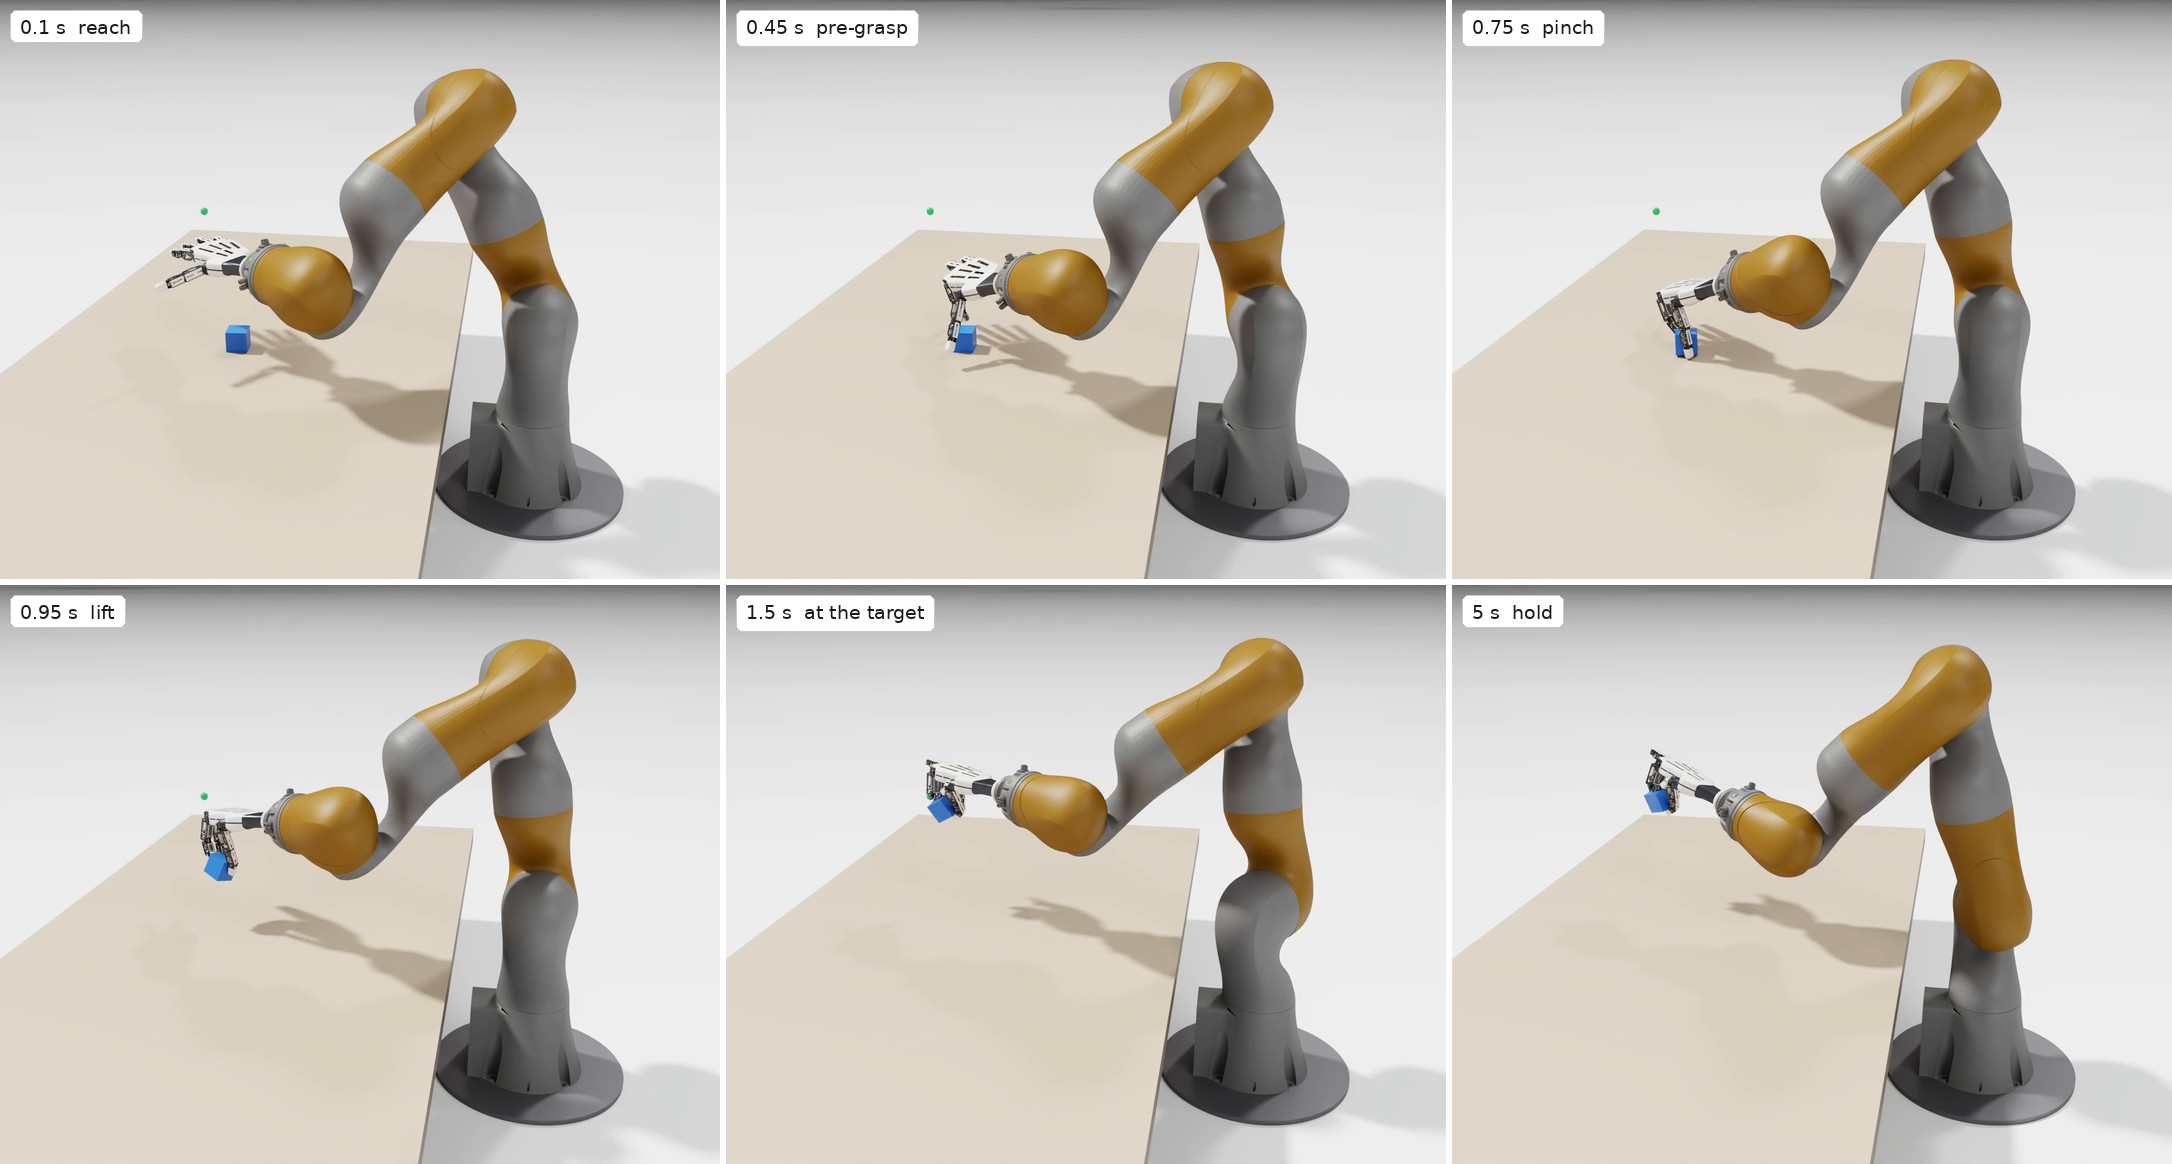
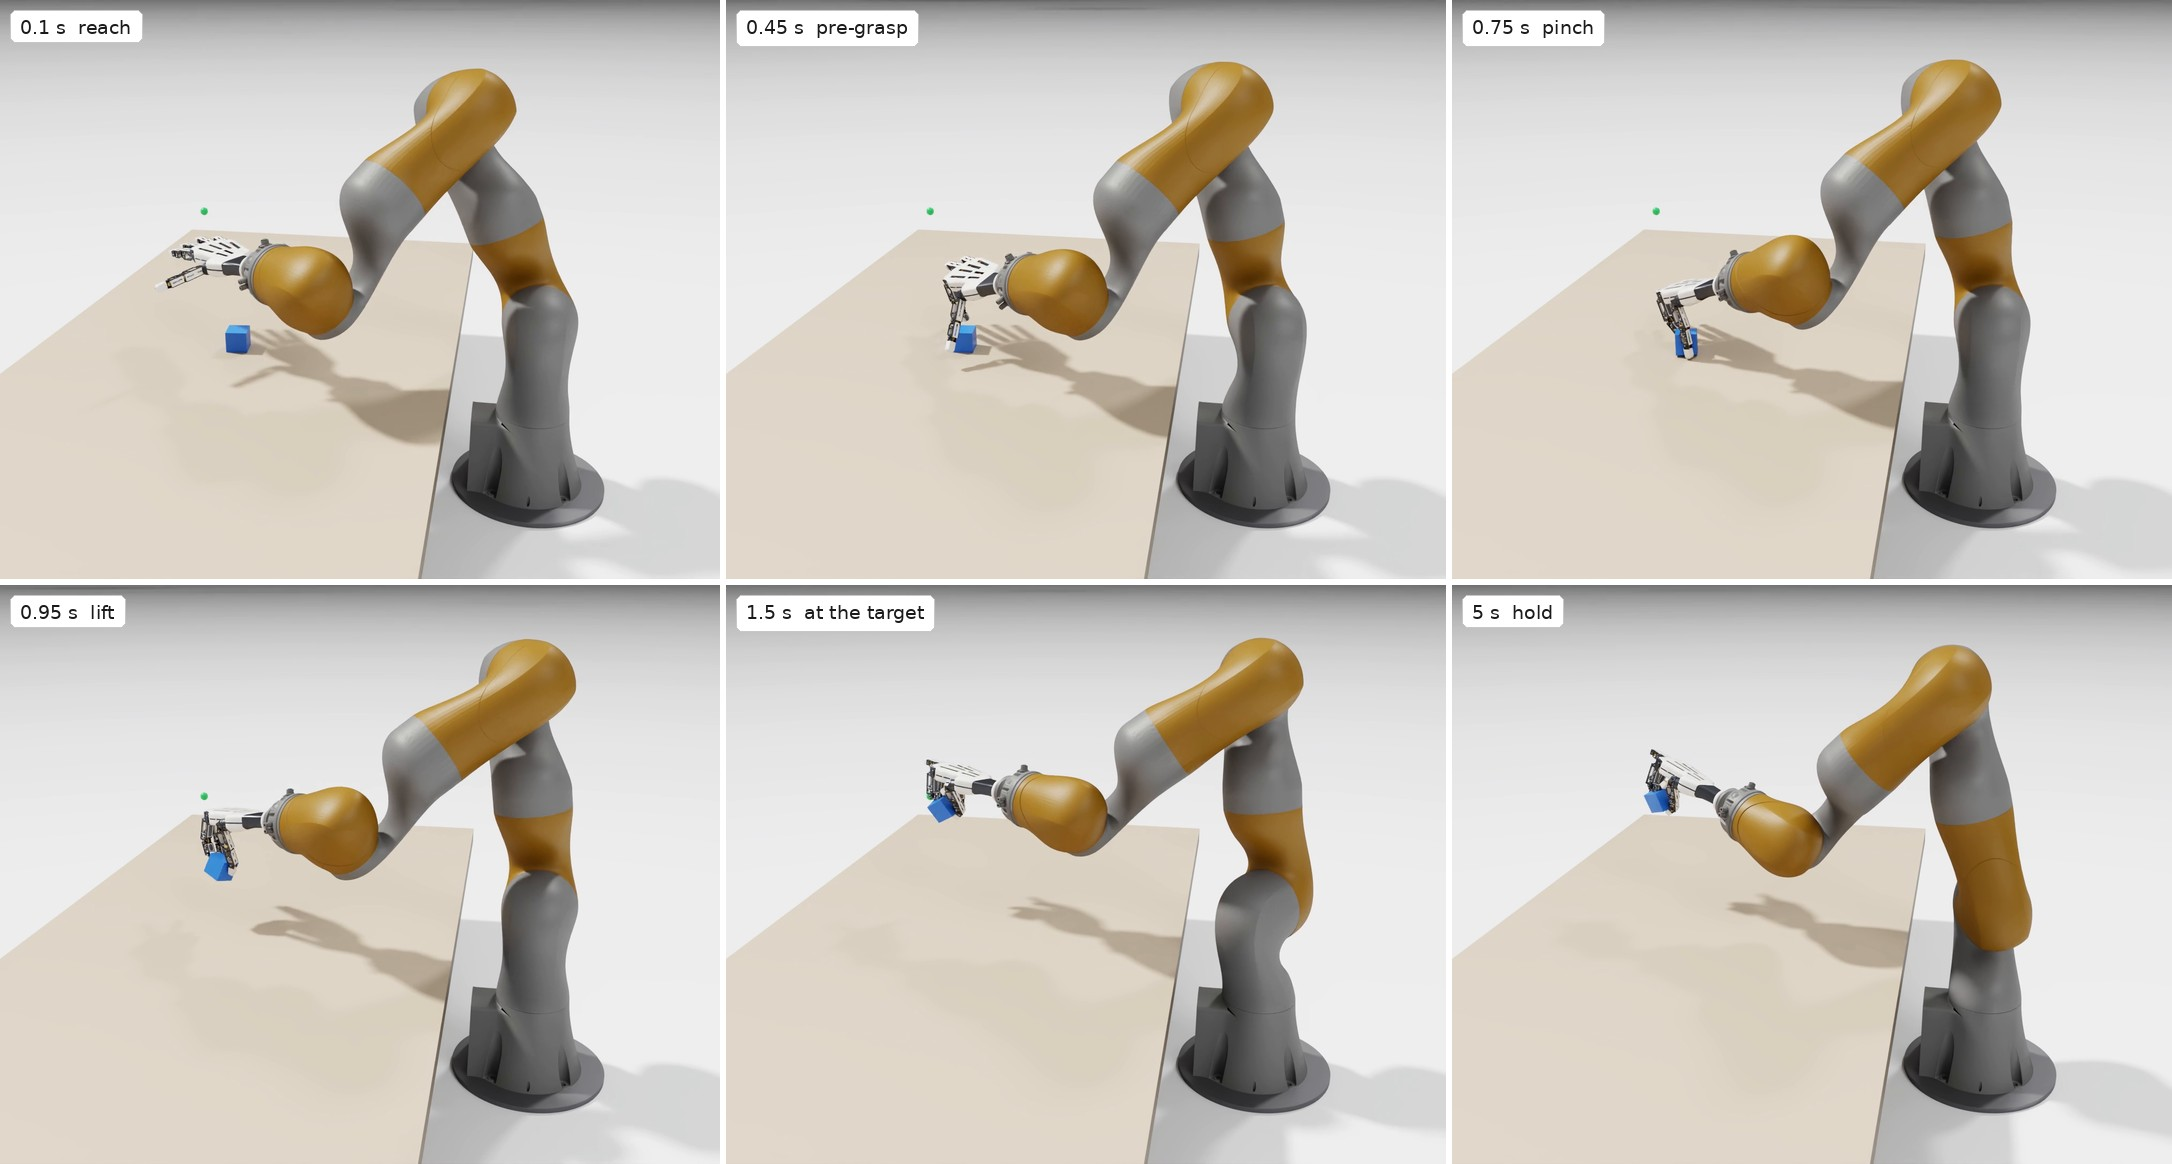
Keep the floor plates clear of the table
The 0.18 m floor plate under each arm reached 3 cm under the table's far
edge, so in the side view the table top hid part of its rim, right where
the table meets the robot. A 0.145 m plate (the iiwa base flange reaches
0.13 m) sits entirely beside the table. Re-rendered the side view and
the 4-environment clip (the x-ray never shows the plate), the reel and
the README media; the README no longer says that every view over the
table hides the base (the 55 deg overview shows it).

diff --git a/source/isaaclab_tasks/isaaclab_tasks/contrib/kuka_cable_hand/render_ovrtx.py b/source/isaaclab_tasks/isaaclab_tasks/contrib/kuka_cable_hand/render_ovrtx.py
@@ -73,8 +73,9 @@ TABLE_LEG_HALF_WIDTH = 0.025
 TABLE_LEG_INSET = 0.035
 """Distance of the legs from the edges of the table top [m]."""
 
-MOUNT_PLATE_RADIUS = 0.18
-"""Radius of the floor plate under each arm base [m]; the iiwa base flange reaches 0.13 m."""
+MOUNT_PLATE_RADIUS = 0.145
+"""Radius of the floor plate under each arm base [m]: wider than the iiwa base flange (0.13 m) and clear of the
+table, whose far edge is 0.15 m from the base axis."""
 
 TARGET_HIDE_DISTANCE = 0.03
 """The target marker hides once the cube center comes this close to it [m] (the goal is reached)."""
@@ -252,7 +253,7 @@ def camera_path(
         az, el, dist, target = 36.0, 22.0, 1.05 + 0.7 * span, np.array([-0.56, -0.02, 0.50])
     elif view == "side":
         # the whole robot from beside the table: the base stands on the floor next to the table, which hides it from
-        # any view over the table (it is 4 cm behind the table's far edge, below the top)
+        # the low views over the table (it is 4 cm behind the table's far edge, below the top)
         az, el, dist, target = SIDE_VIEW[0], SIDE_VIEW[1], SIDE_VIEW[2] + 0.7 * span, np.array(SIDE_VIEW[3])
     elif view == "front":
         az, el, dist, target = 0.0, 12.0, 1.05 + 0.75 * span, np.array([-0.56, 0.0, 0.38])

diff --git a/source/isaaclab_tasks/isaaclab_tasks/contrib/kuka_cable_hand/README.md b/source/isaaclab_tasks/isaaclab_tasks/contrib/kuka_cable_hand/README.md
@@ -150,12 +150,14 @@ python -m isaaclab_tasks.contrib.kuka_cable_hand.render_ovrtx --rollout overview
 ```
 
 Views: `side` (the whole robot from beside the table: its base stands on the floor next to the table, 4 cm behind
-the table's far edge and below its top, so views over the table hide it), `angled` (fixed three-quarter view over
-the table), `track` (follows the pinch point, raised or lowered to keep the cube and the lift target in view; both
-fit while the target is less than about 24 cm above the cube), `wide` (several environments), `front`;
-`--distance`, `--elevation` and `--azimuth` override a view's camera. The first OVRTX run compiles the RTX shader
-cache (`~/.cache/ovrtx`), which can take many minutes; later runs set up in about 2.5 s. The look was checked by
-two rounds of review of full-resolution stills and a frame-by-frame review of the final videos.
+the table's far edge and below its top, so the low views over the table (`angled`, `front`, `track`, the default
+`wide`) hide it; the 4-environment video looks down from 55 deg, where the bases show behind the table), `angled`
+(fixed three-quarter view over the table), `track` (follows the pinch point, raised or lowered to keep the cube and
+the lift target in view; both fit while the target is less than about 24 cm above the cube), `wide` (several
+environments), `front`; `--distance`, `--elevation` and `--azimuth` override a view's camera. The first OVRTX run
+compiles the RTX shader cache (`~/.cache/ovrtx`), which can take many minutes; later runs set up in about 2.5 s.
+The look was checked by two rounds of review of full-resolution stills and a frame-by-frame review of the final
+videos.
 
 ## Results
 
